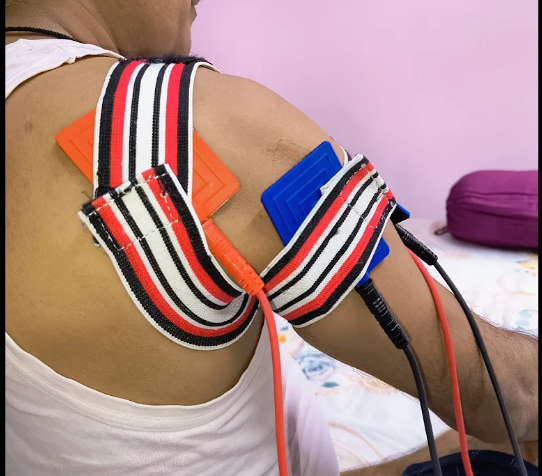
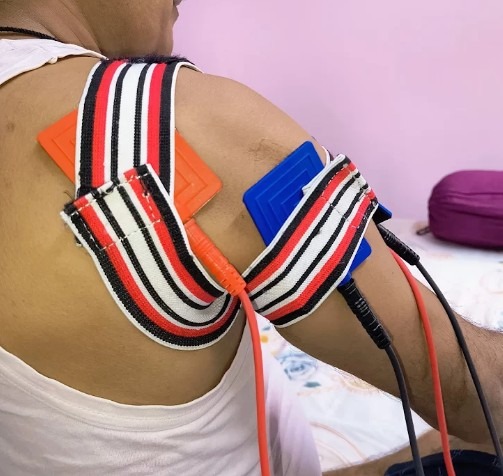
added servies image

diff --git a/components/Logo.jsx b/components/Logo.jsx
@@ -4,46 +4,24 @@ import React from 'react';
 import Image from 'next/image';
 
 export default function Logo({ size = 'md' }) {
-  const sizes = {
-    sm: 'h-8 w-8',
-    md: 'h-12 w-12',
-    lg: 'h-16 w-16',
-    xl: 'h-24 w-24',
+  const dimensions = {
+    sm: { width: 32, height: 32 },
+    md: { width: 48, height: 48 },
+    lg: { width: 64, height: 64 },
+    xl: { width: 96, height: 96 },
   };
 
   return (
-    <div className={`relative ${sizes[size]} flex items-center justify-center`}>
-      <div className="absolute inset-0 bg-gold-600 rounded-full flex items-center justify-center">
-        <div className="text-white font-bold text-center">
-          {size === 'sm' && <span className="text-xs">F4E</span>}
-          {size === 'md' && <span className="text-sm">F4E</span>}
-          {size === 'lg' && <span className="text-base">F4E</span>}
-          {size === 'xl' && <span className="text-lg">F4E</span>}
-        </div>
-      </div>
-      <div className="absolute top-1/2 left-1/2 transform -translate-x-1/2 -translate-y-1/2">
-        <svg 
-          xmlns="http://www.w3.org/2000/svg" 
-          viewBox="0 0 24 24"
-          className={`
-            ${size === 'sm' ? 'w-6 h-6' : ''}
-            ${size === 'md' ? 'w-8 h-8' : ''}
-            ${size === 'lg' ? 'w-10 h-10' : ''}
-            ${size === 'xl' ? 'w-14 h-14' : ''}
-          `}
-          fill="none"
-          stroke="currentColor"
-          strokeWidth="1"
-          strokeLinecap="round"
-          strokeLinejoin="round"
-          style={{ color: '#ffffff', opacity: 0.7 }}
-        >
-          <path d="M12 2a3 3 0 0 0-3 3v1h6V5a3 3 0 0 0-3-3z" />
-          <path d="M19 5a3 3 0 0 1 0 6h-1v3a3 3 0 0 1-6 0v-3H8v3a3 3 0 0 1-6 0v-3H1a3 3 0 0 1 0-6h1V5a7 7 0 0 1 14 0v1h1a3 3 0 0 1 3 3 3 3 0 0 1-1 2.22" />
-          <path d="M12 13v8" />
-          <path d="M9 17h6" />
-          <path d="M9 21h6" />
-        </svg>
+    <div className="relative flex items-center justify-center">
+      <div className="relative overflow-hidden rounded-full">
+        <Image
+          src="/images/logo/logo.png" /* Place your logo image at this path */
+          alt="Fit 4 Existence Logo"
+          width={dimensions[size].width}
+          height={dimensions[size].height}
+          priority
+          className="object-contain"
+        />
       </div>
     </div>
   );

diff --git a/components/ServicesSection.jsx b/components/ServicesSection.jsx
@@ -2,6 +2,7 @@
 
 import { motion } from 'framer-motion';
 import Image from 'next/image';
+import Link from 'next/link';
 import { FiArrowRight } from 'react-icons/fi';
 
 const services = [
@@ -111,9 +112,9 @@ export default function ServicesSection() {
               <div className="p-4 md:p-6">
                 <h3 className="text-xl md:text-2xl font-semibold text-primary-800 mb-2">{service.title}</h3>
                 <p className="text-sm md:text-base text-gray-600 mb-3 md:mb-4">{service.description}</p>
-                <button className="flex items-center text-primary-600 text-sm md:text-base font-medium hover:text-primary-800 transition-colors">
-                  Learn more <FiArrowRight className="ml-2" />
-                </button>
+                <Link href="/#contact" className="flex items-center text-gold-600 text-sm md:text-base font-medium hover:text-gold-700 transition-colors">
+                  Contact Us <FiArrowRight className="ml-2" />
+                </Link>
               </div>
             </motion.div>
           ))}

diff --git a/components/HeroSection.jsx b/components/HeroSection.jsx
@@ -35,7 +35,7 @@ export default function HeroSection() {
               We are committed to providing personalized, compassionate medical care to ensure your well-being and cure you through any pain.
             </p>
             <div className="flex flex-col sm:flex-row gap-4 justify-center lg:justify-start">
-              <Link href="/#contact" className="btn-primary text-center w-full sm:w-auto">
+              <Link href="/#contact" className="btn-primary text-center w-full sm:w-auto px-6 py-3">
                 Book Appointment
               </Link>
               <Link href="/#services" className="btn-secondary text-center w-full sm:w-auto">

diff --git a/LOGO-AND-CONTACT-GUIDE.md b/LOGO-AND-CONTACT-GUIDE.md
@@ -1,0 +1,69 @@
+# Logo and Contact Functionality Guide
+
+This guide explains how to update your logo and ensure contact functionality works throughout the website.
+
+## 1. Logo Update Instructions
+
+### Where to Place Your Logo
+Place your logo image in the following directory:
+```
+/public/images/logo/logo.png
+```
+
+### Logo Requirements
+- Format: PNG with transparency
+- Shape: Preferably circular or square with rounded corners
+- Size: At least 200x200 pixels (larger is better for high-resolution displays)
+- Background: Transparent background is recommended
+- Colors: Use your brand colors (gold and white are currently used in the site)
+
+### How the Logo Works
+The Logo component (`components/Logo.jsx`) has been updated to use your custom image. It will automatically:
+- Display in the header/navbar
+- Display in the footer
+- Resize appropriately based on where it's used
+
+### If Your Logo Needs Adjustments
+If your logo doesn't look right with the current styling, you may need to modify the Logo.jsx component. For example:
+- If your logo is not circular, remove the `rounded-full` class
+- If your logo has different proportions, adjust the width and height values
+
+## 2. Contact Functionality
+
+### "Contact Us" Links
+All "Contact Us" links throughout the website now point to the contact section (`/#contact`). This includes:
+- The "Contact" link in the navigation menu
+- The "Book Appointment" buttons in the header and mobile menu
+- The "Contact Us" links that replaced "Learn More" in the Services section
+
+### Book Appointment Functionality
+The "Book Appointment" buttons now link directly to the contact form. These buttons appear in:
+- The main navigation
+- The mobile menu
+- The hero section
+
+### Contact Form
+The contact form in the ContactSection component is set up to:
+- Collect user information (name, email, phone, service, message)
+- Validate inputs
+- Show a success message after submission
+
+### Contact Information
+Your contact information is displayed in the ContactSection and Footer components:
+- Phone: +91 6287811094
+- Email: fit4existence@gmail.com
+- Location: Gaya, Bodhgaya, Bihar, India
+- Google Maps link: Links to your location on Google Maps
+
+## 3. How to Test Contact Functionality
+
+1. Click on any "Contact Us" or "Book Appointment" button throughout the site
+2. Verify that it scrolls smoothly to the contact section
+3. Fill out the contact form and submit it
+4. Verify that the success message appears
+
+## 4. Additional Notes
+
+- The contact form currently uses a simulated submission (setTimeout) for demonstration purposes
+- To connect it to a real backend or email service, you'll need to modify the `handleSubmit` function in ContactSection.jsx
+- All Google Maps links point to: https://www.google.com/maps/search/fit+4+existence+physiotherapy+gaya/
